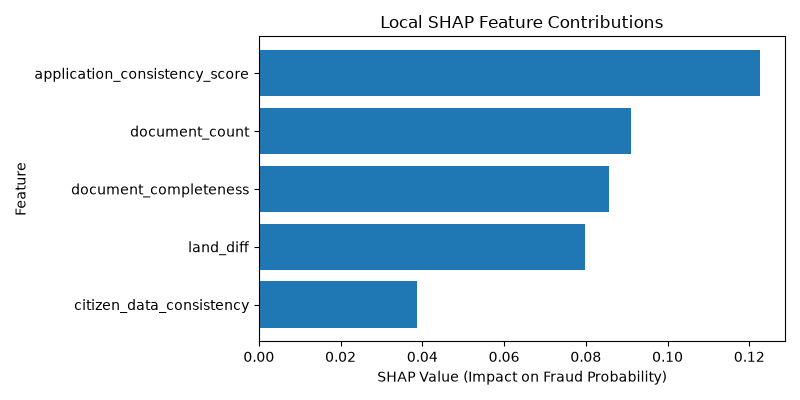
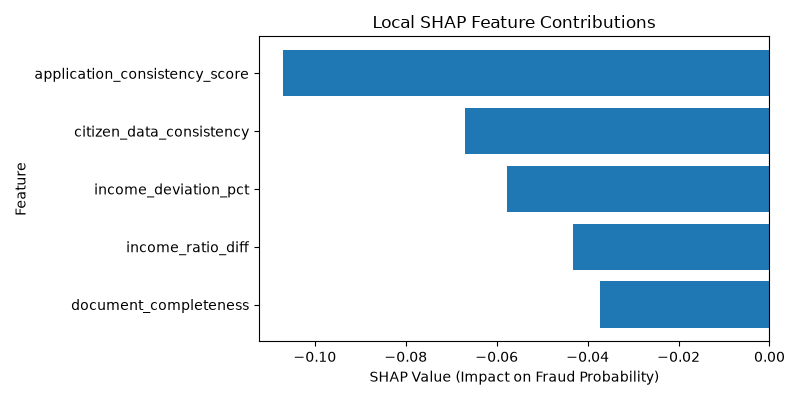
fix: resolve AI model loading, cache TreeExplainer, and increase backend AI timeouts

diff --git a/src/fraudEngine.py b/src/fraudEngine.py
@@ -54,7 +54,7 @@ class FraudIntelligenceEngine:
             self.applications_df = pd.DataFrame()
 
         # Load pre-trained model
-        model_paths = [
+        self.model_paths = [
             os.path.join(models_dir, "fraud_model.joblib"),
             os.path.join(models_dir, "fraud", "fraud_model.joblib"),
             "models/fraud_model.joblib",
@@ -71,15 +71,25 @@ class FraudIntelligenceEngine:
             "land_diff"
         ]
 
-        for mp in model_paths:
+        self.ensure_model_loaded()
+
+    def ensure_model_loaded(self):
+        """
+        Attempts to load model artifact if not yet loaded.
+        """
+        if self.model is not None:
+            return True
+
+        for mp in self.model_paths:
             if os.path.exists(mp):
                 try:
                     artifact = joblib.load(mp)
                     self.model = artifact["model"]
                     self.feature_names = artifact["feature_names"]
-                    break
+                    return True
                 except Exception as e:
                     print(f"Warning: Could not load fraud ML model artifact from '{mp}': {e}")
+        return False
 
     def prepare_single_app_features(self, application, citizen_profile):
         """
@@ -233,6 +243,9 @@ class FraudIntelligenceEngine:
             c_profile = citizen_profile.to_dict()
         else:
             c_profile = citizen_profile
+
+        # Ensure model is loaded if not already
+        self.ensure_model_loaded()
 
         # Prepare features
         X_df = self.prepare_single_app_features(app, c_profile)

diff --git a/src/explainableAI.py b/src/explainableAI.py
@@ -22,7 +22,8 @@ class ExplainableAILayer:
     fraud risk assessments, and local SHAP feature attributions for ML predictions.
     """
     def __init__(self):
-        pass
+        self._explainer = None
+        self._explainer_model = None
 
     def explain_recommendation(self, recommendation_result, citizen_profile):
         """
@@ -198,8 +199,11 @@ class ExplainableAILayer:
                     "shap_available": True
                 }
 
-            # 2. TreeExplainer Initialization & Execution
-            explainer = shap.TreeExplainer(model)
+            # 2. TreeExplainer Initialization & Execution (cached for performance)
+            if self._explainer is None or self._explainer_model is not model:
+                self._explainer = shap.TreeExplainer(model)
+                self._explainer_model = model
+            explainer = self._explainer
 
             # Determine Base Value float
             base_val = 0.5

diff --git a/backend/src/main/java/com/ucms/service/AiService.java b/backend/src/main/java/com/ucms/service/AiService.java
@@ -18,8 +18,8 @@ public class AiService {
 
     public AiService() {
         SimpleClientHttpRequestFactory factory = new SimpleClientHttpRequestFactory();
-        factory.setConnectTimeout(3000);
-        factory.setReadTimeout(5000);
+        factory.setConnectTimeout(10000);
+        factory.setReadTimeout(30000);
         this.restTemplate = new RestTemplate(factory);
     }
 

diff --git a/api/main.py b/api/main.py
@@ -41,7 +41,7 @@ def health():
     """
     model_loaded = False
     if service is not None and service.fraud_engine is not None:
-         model_loaded = service.fraud_engine.model is not None
+         model_loaded = service.fraud_engine.ensure_model_loaded()
          
     return {
         "status": "UP",
